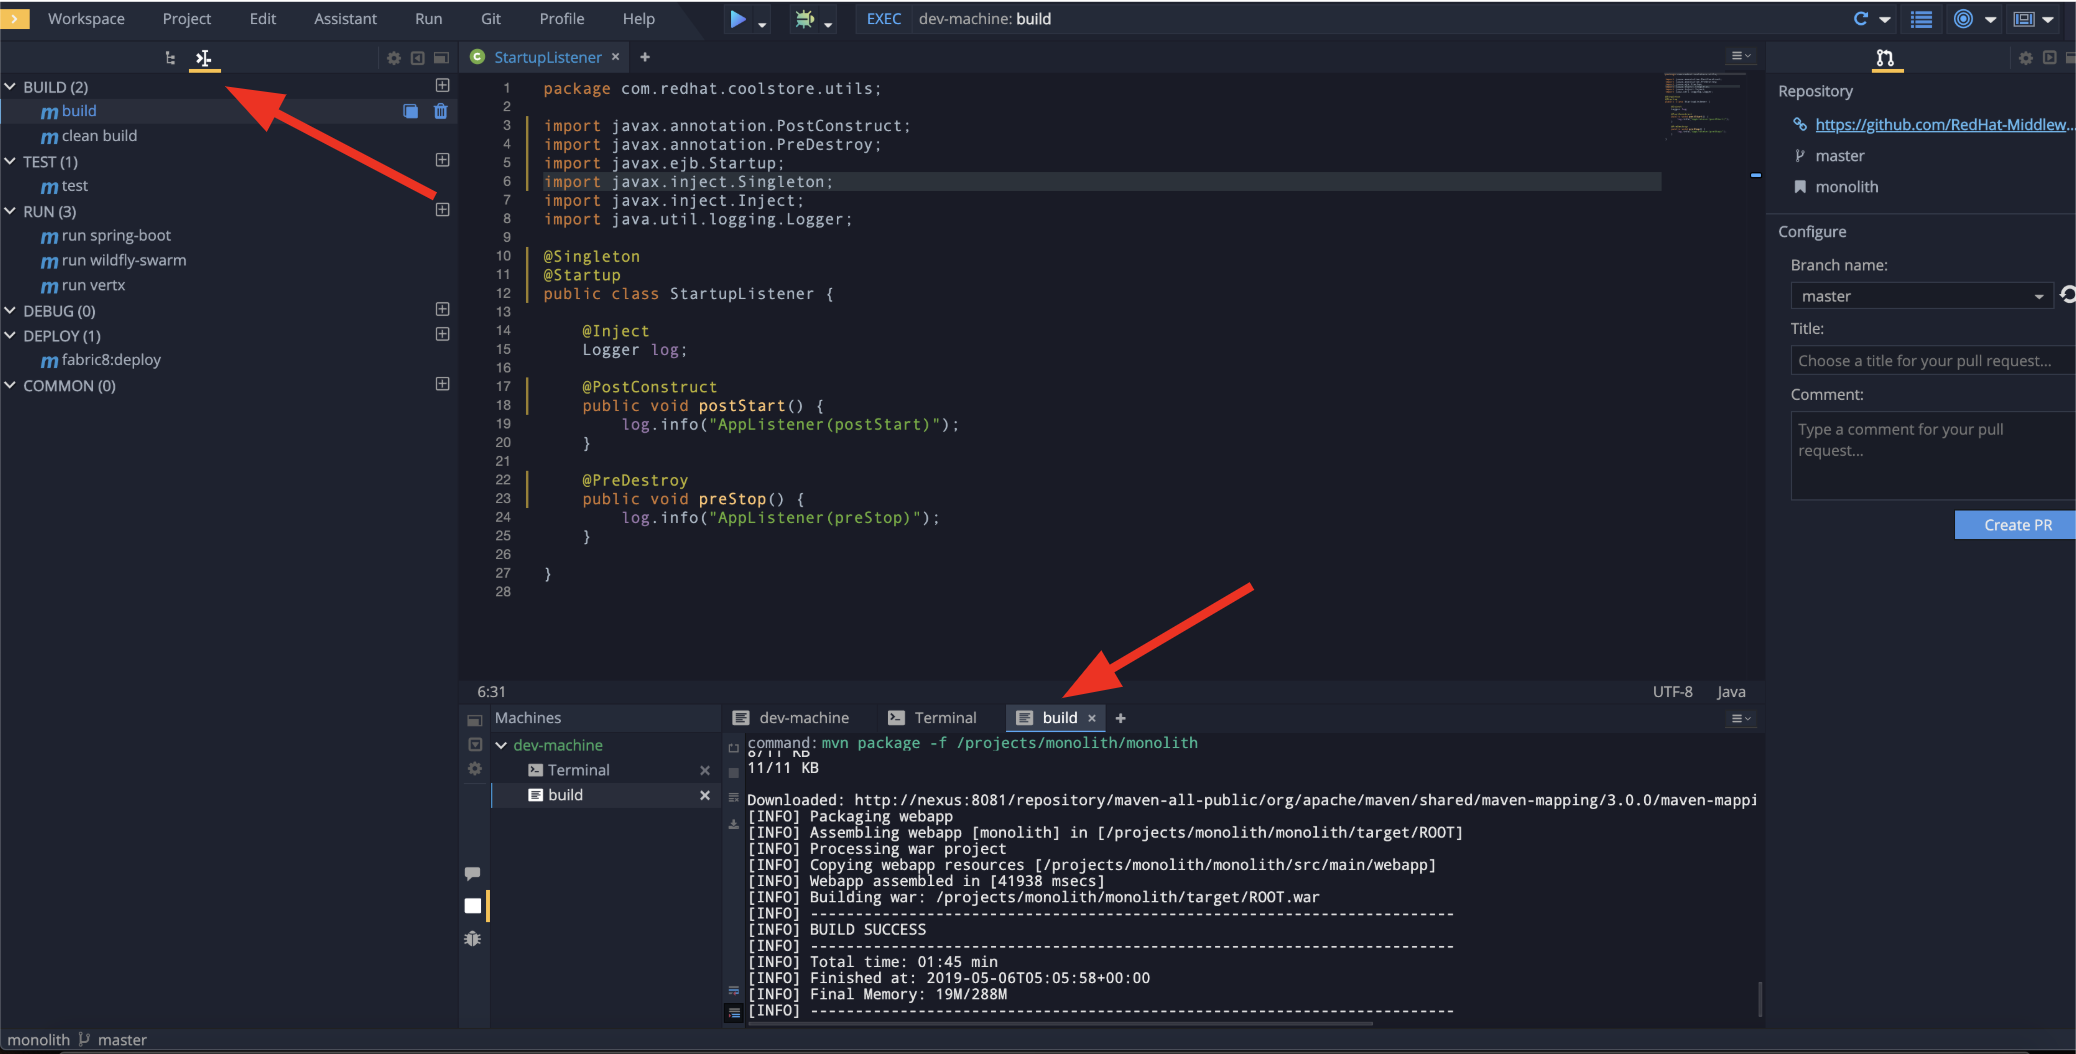
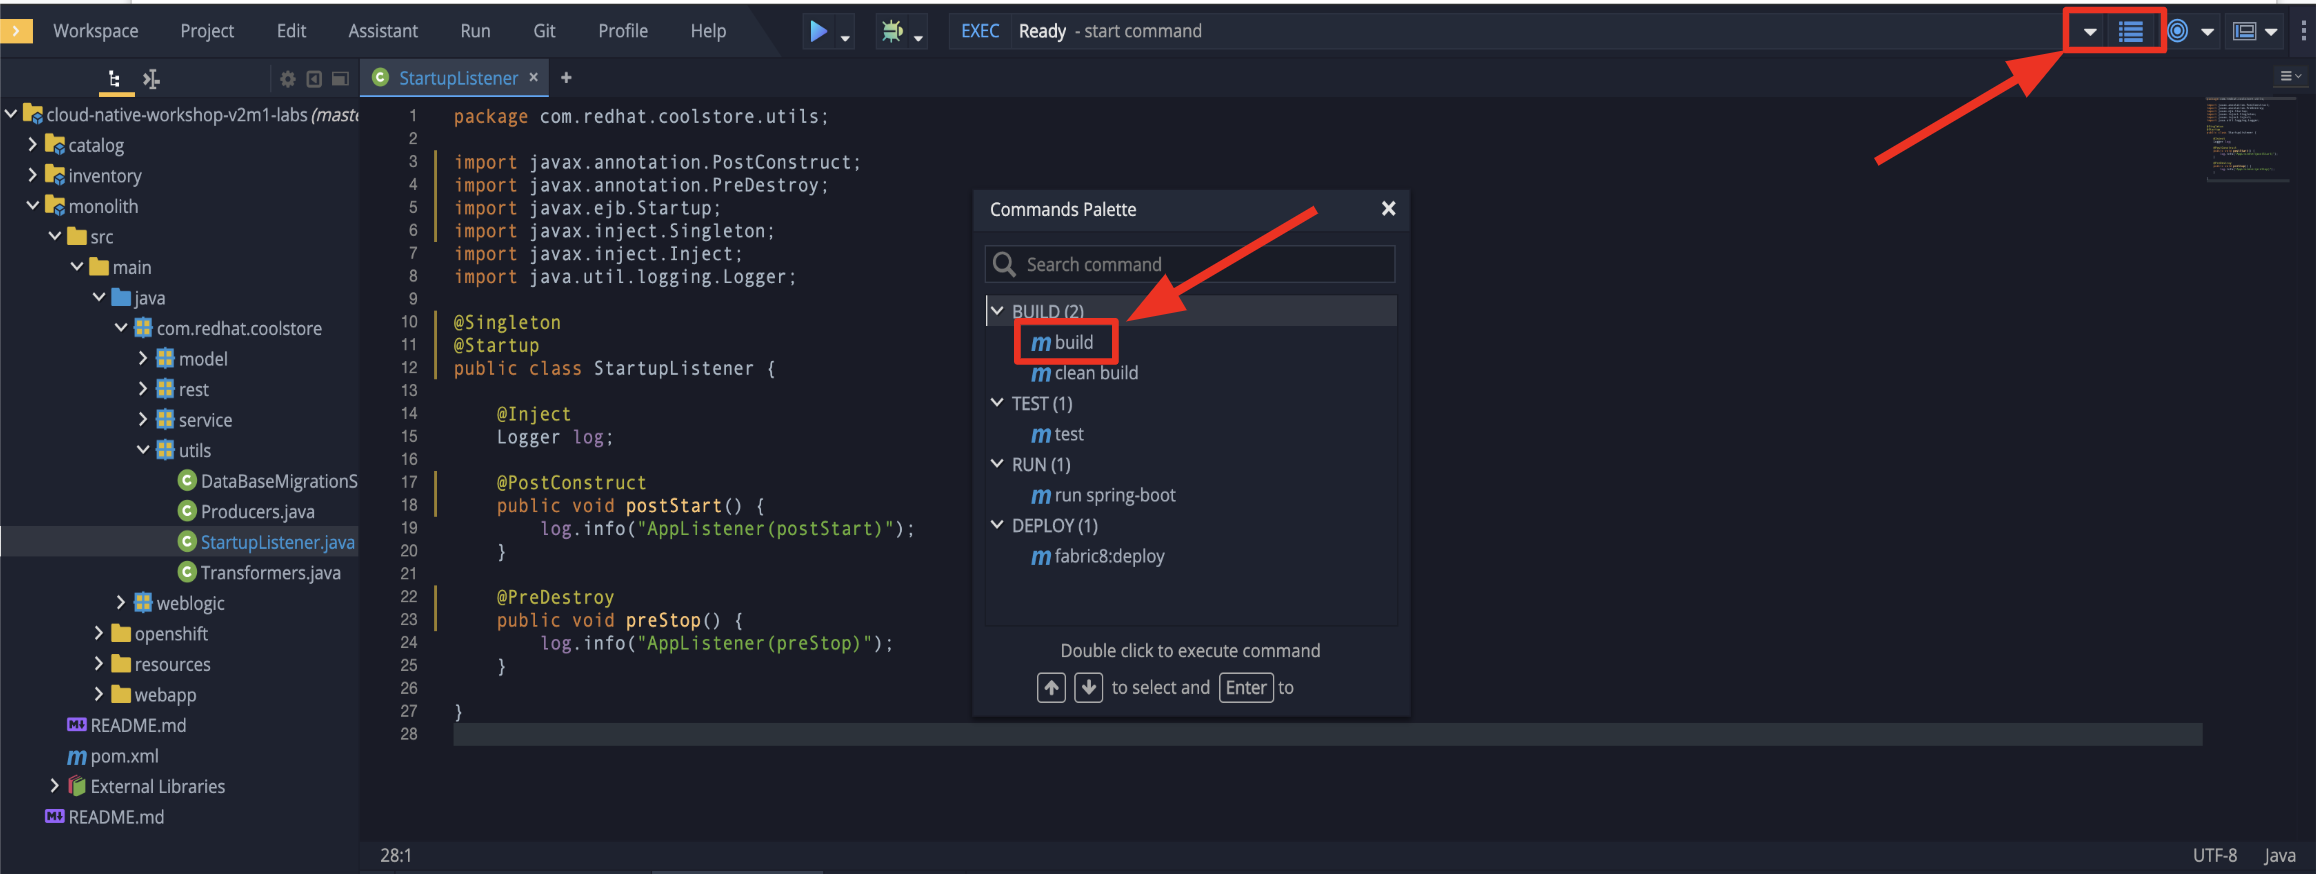
update eclipse contents

diff --git a/migrate-to-jboss-eap.md b/migrate-to-jboss-eap.md
@@ -129,12 +129,14 @@ public class StartupListener {
 
 **4. Test the build**
 
-Build and package the app using Maven to make sure the changed code still compiles via Eclipse Che **BUILD** window:
+Go to `Commands Palette` and click on `build` in Eclipse Che:
 
 ![rhamt_project_issues]({% image_path bootstrap-che-build.png %})
 
 If builds successfully (you will see `BUILD SUCCESS`), then let's move on to the next issue! If it does not compile,
 verify you made all the changes correctly and try the build again.
+
+![rhamt_project_issues]({% image_path bootstrap-che-build-result.png %})
 
 In the next step, we will migrate some Weblogic-specific code in the app to use standard Java EE interfaces.
 
@@ -149,7 +151,7 @@ The WebLogic `NonCatalogLogger` is not supported on JBoss EAP (or any other Java
 We will use the standard Java Logging framework, a much more portable framework. The framework also
 [supports internationalization](https://docs.oracle.com/javase/8/docs/technotes/guides/logging/overview.html#a1.17) if needed.
 
-**4. Open the file**
+**5. Open the file**
 
 Open the offending file `src/main/java/com/redhat/coolstore/service/OrderServiceMDB.java`
 

diff --git a/getting-started-cloud-native.md b/getting-started-cloud-native.md
@@ -128,7 +128,7 @@ Those examples are there to get you started, soon it will be time for you to rem
 
 More importantly, **Fabric8 Launcher Operator** helps enabling the Launcher on an Openshift cluster for enterprise developers who
 want to build the cloud-native application development tool on local machine or on-premise infrastructure. You can deploy the launcher in 5 mins
-along with [INSTALL AND CONFIGURE THE FABRIC8 LAUNCHER TOOL](https://access.redhat.com/documentation/en-us/red_hat_openshift_application_runtimes/1/html-single/install_and_configure_the_fabric8_launcher_tool/index). You can also go through [Operator repository](https://github.com/fabric8-launcher/launcher-operator) how it works.
+along with [Install and Configure THtheE Fabric8 Launcher Tool](https://access.redhat.com/documentation/en-us/red_hat_openshift_application_runtimes/1/html-single/install_and_configure_the_fabric8_launcher_tool/index). You can also go through [Operator GIT Repository](https://github.com/fabric8-launcher/launcher-operator) how it works.
 
 When you deploy the launcher by `Operator', you will see a similar overview in OpenShift dashboard:
 

diff --git a/break-monolith-apart1.md b/break-monolith-apart1.md
@@ -75,7 +75,7 @@ While the code is surprisingly simple, under the hood this is using:
 It makes complex mappings possible, but it does not make simple and common mappings trivial. Hibernate ORM with 
 Panache focuses on making your entities trivial and fun to write in Quarkus.
 
-This project currently contains no code other than web resources such as index.html in `src/test/resources`.
+This project currently contains no code other than web resources such as index.html in `src/main/resources`.
 
 Build and package the app using Maven to make sure the changed code still compiles via Eclipse Che **BUILD** window:
 
